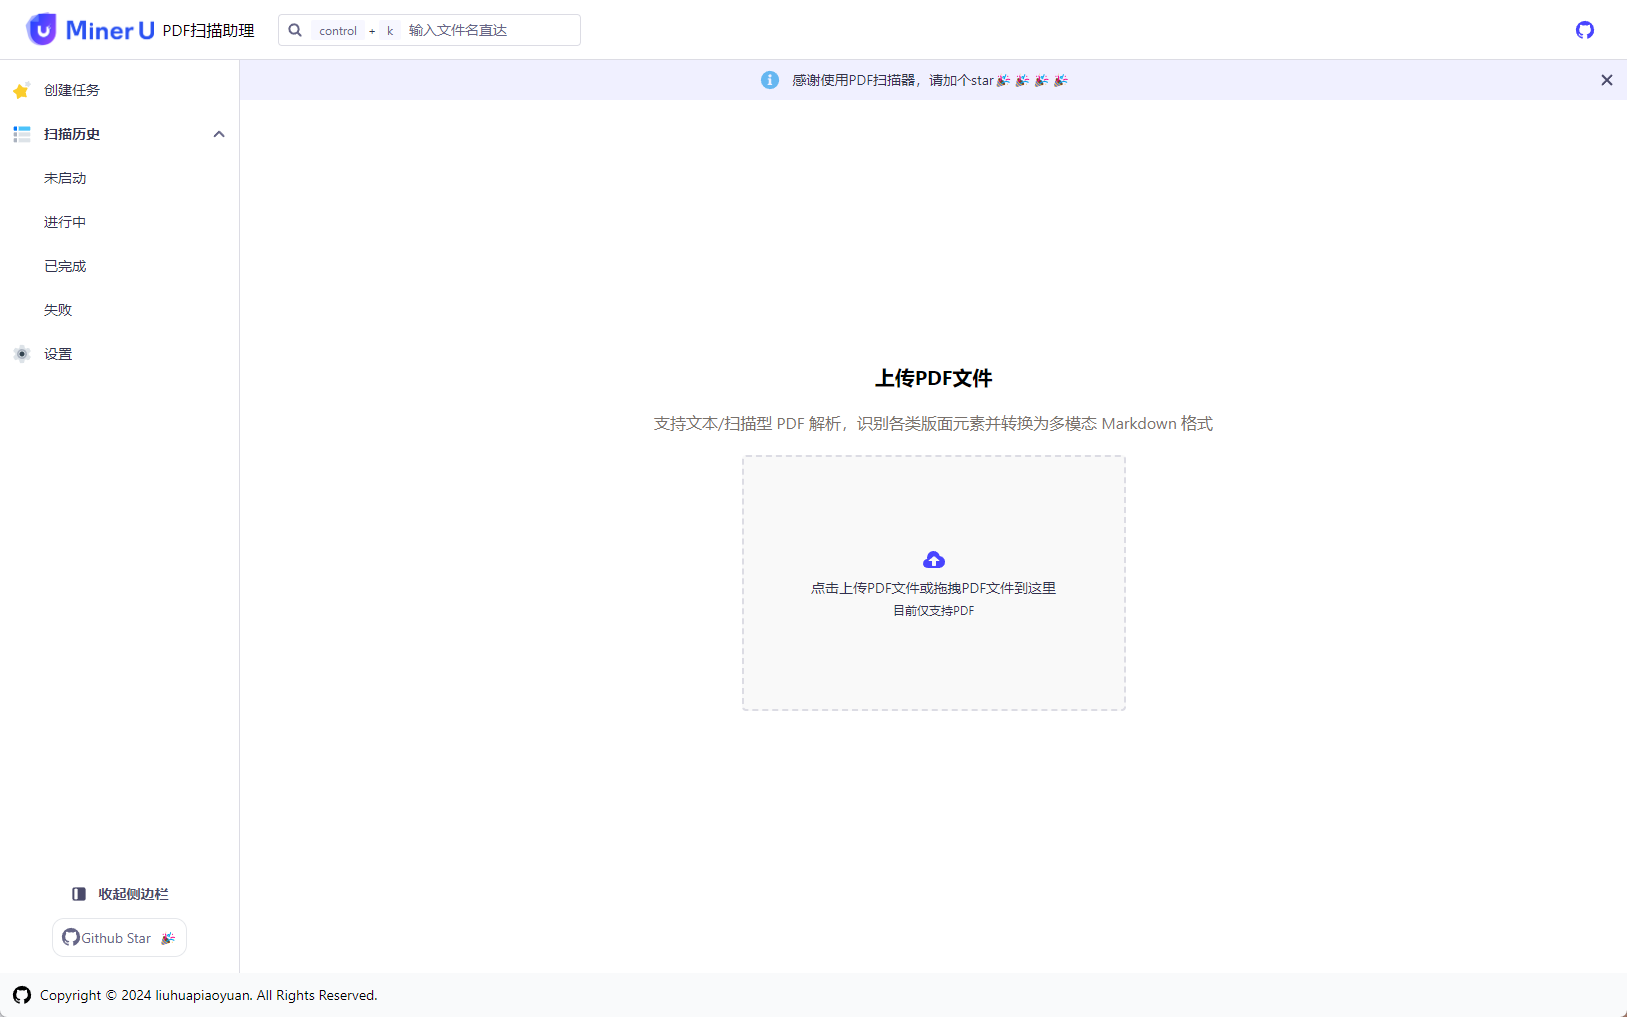
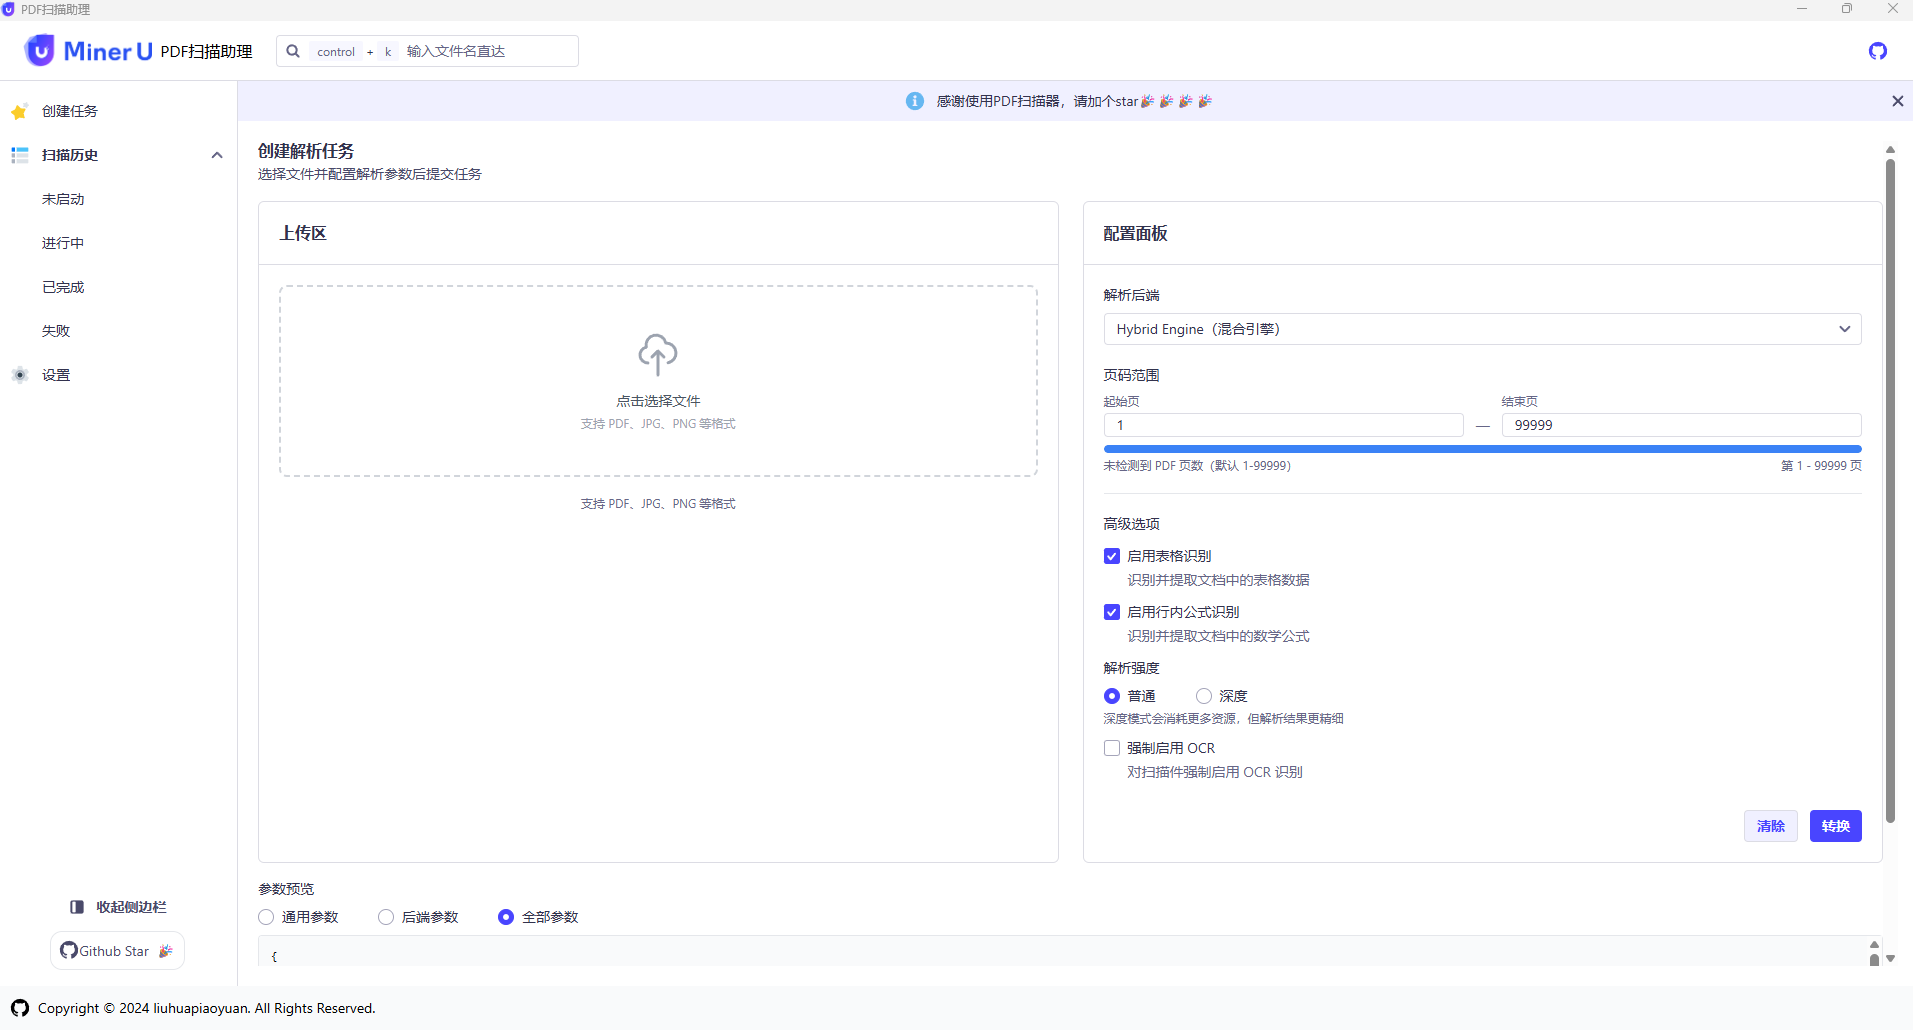
docs(readme): 更新README，注明项目重构来源与AI翻译功能
更新README.md和应用截图

diff --git a/README.md b/README.md
@@ -1,23 +1,28 @@
-# MinerUPdfScanner
+# MinerU-PDFScanner
 
-MinerUPdfScanner 是一款基于 [MinerU](https://github.com/opendatalab/MinerU) 的 Windows 客户端程序，用于高效地扫描和提取 PDF 文档中的内容。该工具结合深度学习技术，能够自动提取文档中的文字、表格、图片和公式等，并提供多种分析和统计功能。
+> 本项目基于 [liuhuapiaoyuan/MinerU-PDFScanner](https://github.com/liuhuapiaoyuan/MinerU-PDFScanner) 进行了**大量重构**，代码结构与 UI 交互均有显著改进，并新增了 AI 翻译等实用功能。
+
+MinerU-PDFScanner 是一款基于 [MinerU](https://github.com/opendatalab/MinerU) 的 Windows 客户端程序，用于高效地扫描和提取 PDF 文档中的内容。该工具结合深度学习技术，能够自动提取文档中的文字、表格、图片和公式等，并提供多种分析和统计功能。
 
 ## 功能
 
 1. **创建提取任务**
    - 用户可以选择 PDF 文件并提交提取任务。
 
-2. **提取记录查看**
+2. **AI 翻译** ✨
+   - 支持调用 AI 接口对提取结果进行翻译，方便跨语言阅读和文档国际化处理。
+
+3. **提取记录查看**
    - 支持按照不同状态查看提取记录，便于管理和跟踪任务进度。
 
-3. **导出提取结果**
+4. **导出提取结果**
    - 用户可以将提取后的结果导出为 ZIP 文件，方便存储和分享。
 
-4. **查看提取结果**
+5. **查看提取结果**
    - 提供左右分栏模式查看提取结果，左侧为 PDF 文档，右侧为 Markdown 格式的提取结果。
 
-5. **打包导出**
-   - 通过zip导出提取结果，包含Images。
+6. **打包导出**
+   - 通过 zip 导出提取结果，包含 Images。
 
 ## 安装
 
@@ -28,40 +33,17 @@ MinerUPdfScanner 是一款基于 [MinerU](https://github.com/opendatalab/MinerU)
 
 **重点**: 要配套 [https://github.com/liuhuapiaoyuan/MinerU-webui](https://github.com/liuhuapiaoyuan/MinerU-webui) 作为后端API
 
-1. 启动 MinerUPdfScanner。
-2. 点击“创建任务”，选择要提取的 PDF 文件。
-3. 提交任务后，可以在“提取记录”中查看任务状态。
+1. 启动 MinerU-PDFScanner。
+2. 点击"创建任务"，选择要提取的 PDF 文件。
+3. 提交任务后，可以在"提取记录"中查看任务状态。
 4. 提取完成后，可以导出结果或在右侧查看提取内容。
-5. PDF查看左右两侧分栏同步查看
-
+5. PDF 查看左右两侧分栏同步查看
 
 ## 图片展示
+
 ![主页](doc/main.png)
 ![文档查看](doc/preview.png)
 ![快捷链接](doc/quick.png)
-
-### 版本发布计划
-
-#### 1.0.0 版本
-**发布日期**：预计日期
-
-**功能**：
-- 创建提取任务：用户可以选择 PDF 文件并提交提取任务。
-- 提取记录查看：支持按照不同状态查看提取记录。
-- 导出提取结果：将提取后的结果导出为 ZIP 文件。
-- 查看提取结果：提供左右分栏模式查看提取结果，左侧为 PDF 文档，右侧为 Markdown 格式的提取结果。
-
-#### 1.1.0 版本
-**发布日期**：预计日期
-
-**功能**：
-- [ ] 完善的PDF体验，包含文本层，识别图形层
-- [ ] 利用`rust`本机文件读取能力，增强体验 
-- [ ] 内置完整的 MinerU 运行环境：不再通过外部服务来调用，提升用户体验。
-- [ ] 支持按照目录批量读取：用户可以一次性选择一个目录，批量处理该目录下的所有 PDF 文件。
-- [ ] 支持单文件配置保存路径：用户可以配置保存提取结果的路径，提升灵活性。
-- [ ] 支持多种格式导出，比如导出有声书格式
- 
 
 ## 技术支持
 